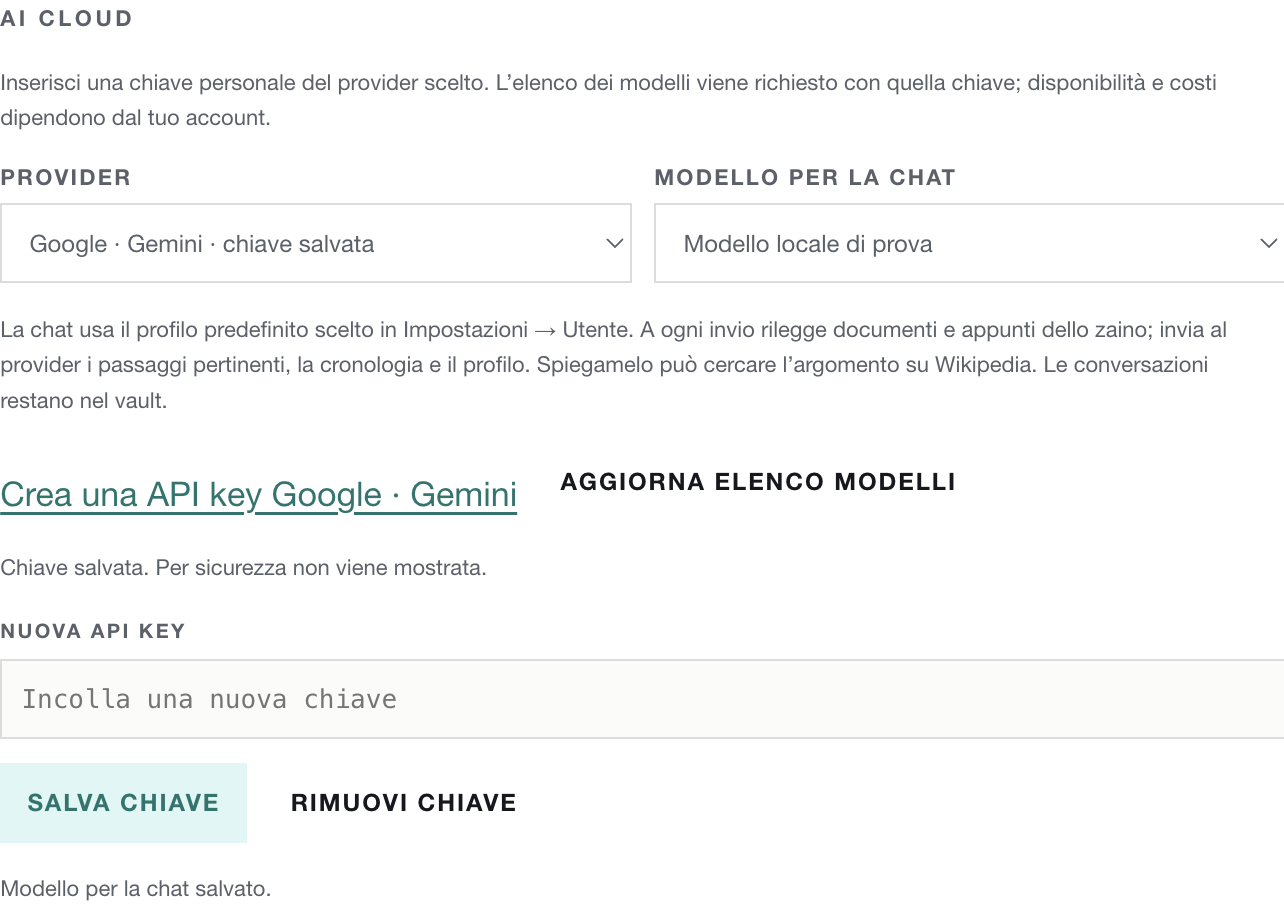
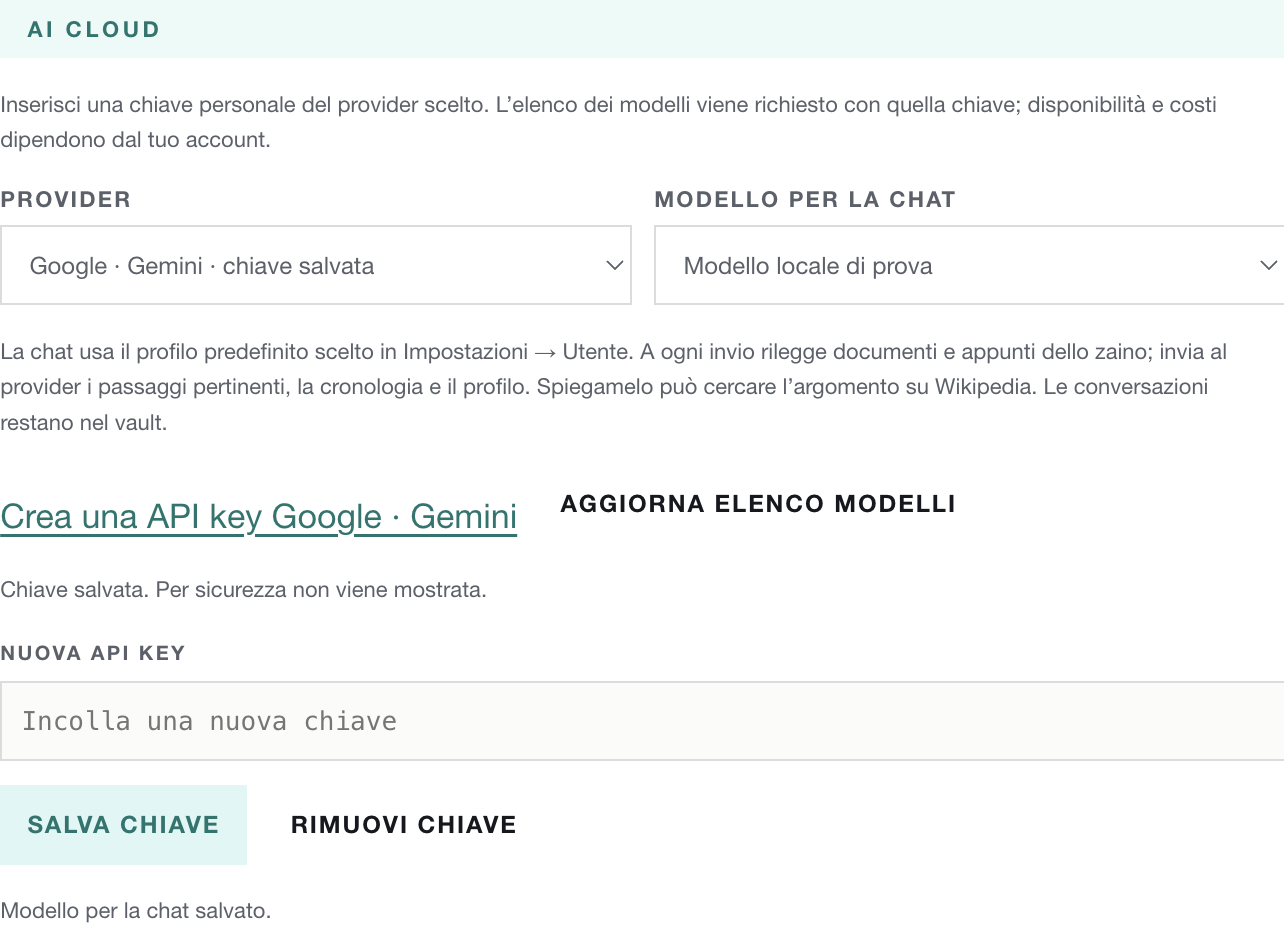
Distingue i livelli delle intestazioni con il verde condiviso
Rende piu visibile il riquadro attivo, evidenzia AI cloud e AI locale e usa un fondo piu tenue per i tre tipi di Media.

diff --git a/App/StudIA.html b/App/StudIA.html
@@ -1551,10 +1551,10 @@
      anche loro. Il teal è il colore che in tutta l'app vuol dire «questo», e la
      riga sotto lo ripete sottile: due segni deboli invece di uno forte, perché
      il pannello non diventi una bandiera. */
-  .bhead, .znav .zs-tit, :is(#searchRes, #albumCercaRisultati) .sr-lesson{
+  .bhead, .znav .zs-tit, .zchat-ai-section > .set-sec-h, :is(#searchRes, #albumCercaRisultati) .sr-lesson{
     --testata-bg:color-mix(in srgb, var(--teal) 10%, var(--panel));
     background:var(--testata-bg); }
-  .blocco[data-attivo="1"] > .bhead{ --testata-bg:color-mix(in srgb, var(--teal) 21.78%, var(--panel)); }
+  .blocco[data-attivo="1"] > .bhead{ --testata-bg:color-mix(in srgb, var(--teal) 23.958%, var(--panel)); }
   :is(.bhead, .znav .zs-tit, :is(#searchRes, #albumCercaRisultati) .sr-lesson) button[aria-pressed="true"]{
     --testata-bg:color-mix(in srgb, var(--teal) 26%, var(--panel)); }
   /* Si moltiplica soltanto il fondo: testo e icone conservano il proprio contrasto. */
@@ -3085,7 +3085,7 @@
   #albumCercaInput{box-sizing:border-box;width:100%;padding:.65rem;border:0;border-bottom:1px solid var(--line);font:inherit;background:var(--panel);color:var(--ink);}
   #albumCercaRisultati{max-height:50vh;overflow:auto;}
   #albumOrdineMenu button[aria-checked="true"]::before{content:'✓ ';}
-  .zs-media-tipo{font-size:10px;font-weight:700;text-transform:uppercase;letter-spacing:.08em;color:var(--muted);padding:.4rem .6rem;border-bottom:1px solid var(--line-weak);}
+  .zs-media-tipo{font-size:10px;font-weight:700;text-transform:uppercase;letter-spacing:.08em;color:var(--teal-strong);padding:.4rem .6rem;border-bottom:1px solid var(--line-weak);background:color-mix(in srgb,var(--teal) 7%,var(--panel));}
 
 </style>
 <!-- Le regole del foglio, scritte al momento di stampare (vedi sopra). Nasce

diff --git a/App/assets/chat/ui.css b/App/assets/chat/ui.css
@@ -217,6 +217,7 @@
 .zrag-modelli article p { margin:.15rem 0; }
 
 .zchat-ai-section + .zchat-ai-section { margin-top:1.5rem; padding-top:1rem; border-top:1px solid var(--line); }
+.zchat-ai-section > .set-sec-h { padding:.5em var(--tb-pad-x); color:var(--teal-strong); }
 .zchat-ai-section[hidden],#zchatInfomaniak[hidden],#zragDownloads[hidden],#zragDownloads [hidden] { display:none!important; }
 #zragDownloads .zchat-hint { margin:.2rem 0; }
 #zragDownloads > .set-note { line-height:1.6; }
